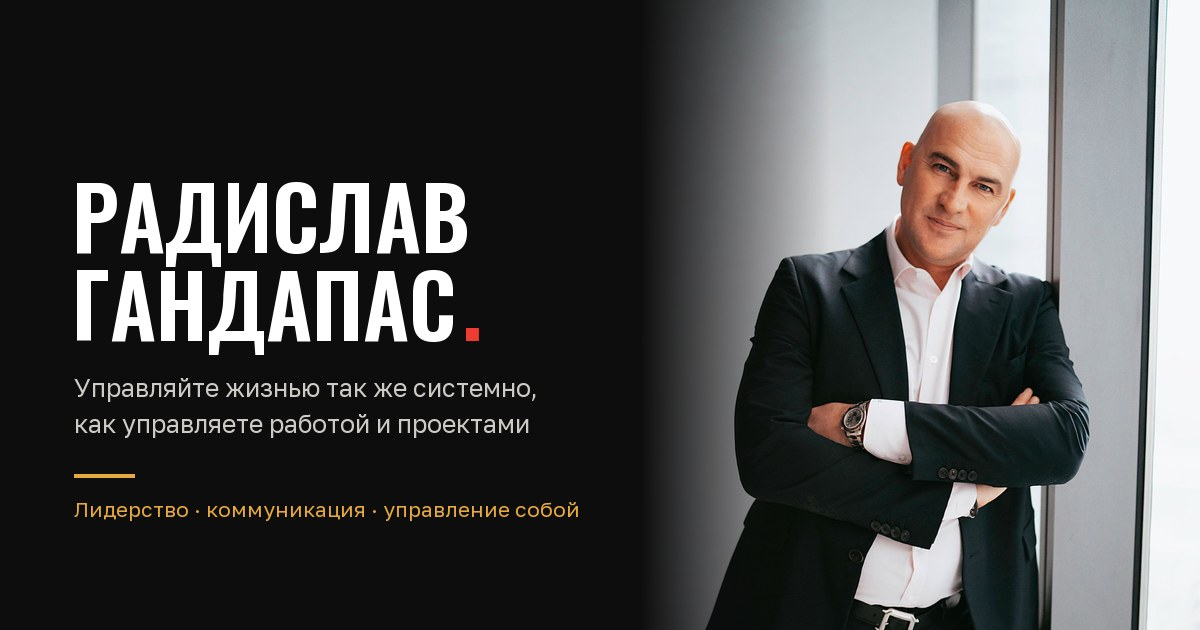
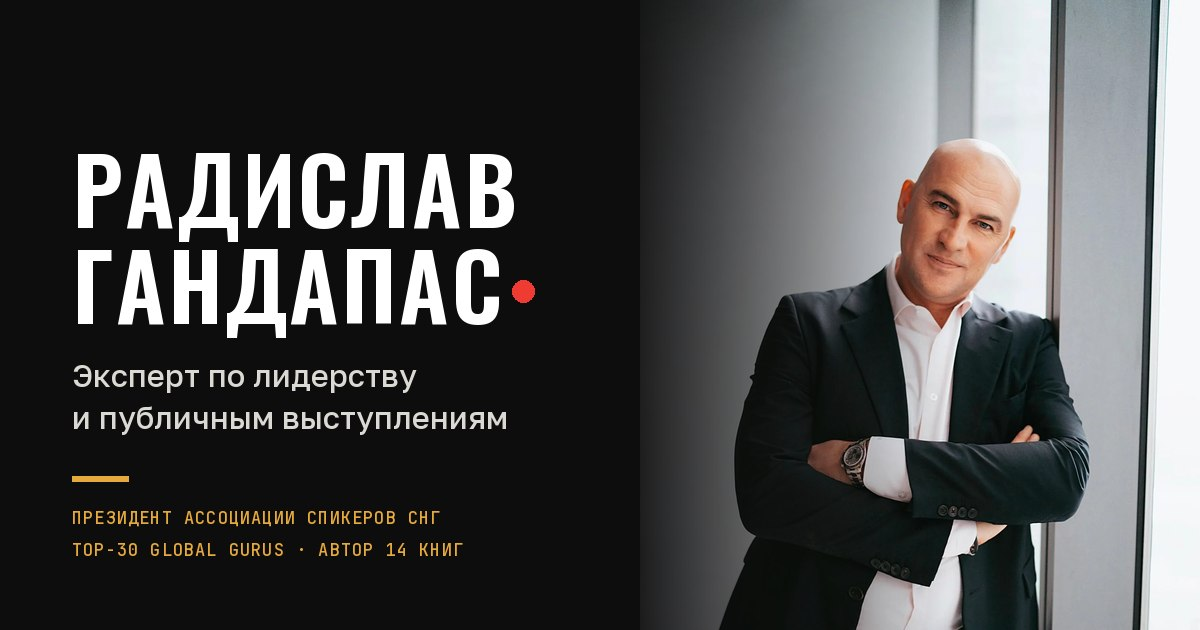
Новая OG-обложка: актуальный титул вместо старого вебинара
1200×630 в стиле сайта (Oswald-капс, красная точка, регалии, фото из
hero), 75 КБ. ?v=2 в og:image, чтобы мессенджеры сбросили кэш превью.

diff --git a/index.html b/index.html
@@ -31,7 +31,7 @@
 <meta property="og:url" content="https://shbshv-czec.github.io/radislavgandapas/">
 <meta property="og:title" content="Радислав Гандапас — эксперт по лидерству, спикер, автор 14 книг">
 <meta property="og:description" content="Эксперт по лидерству и публичным выступлениям, президент Ассоциации спикеров СНГ. Тренинги, корпоративные программы, коучинг. Расписание и запись на сайте.">
-<meta property="og:image" content="https://shbshv-czec.github.io/radislavgandapas/assets/img/og-image.jpg">
+<meta property="og:image" content="https://shbshv-czec.github.io/radislavgandapas/assets/img/og-image.jpg?v=2">
 <meta property="og:image:width" content="1200">
 <meta property="og:image:height" content="630">
 <meta property="og:image:alt" content="Радислав Гандапас">
